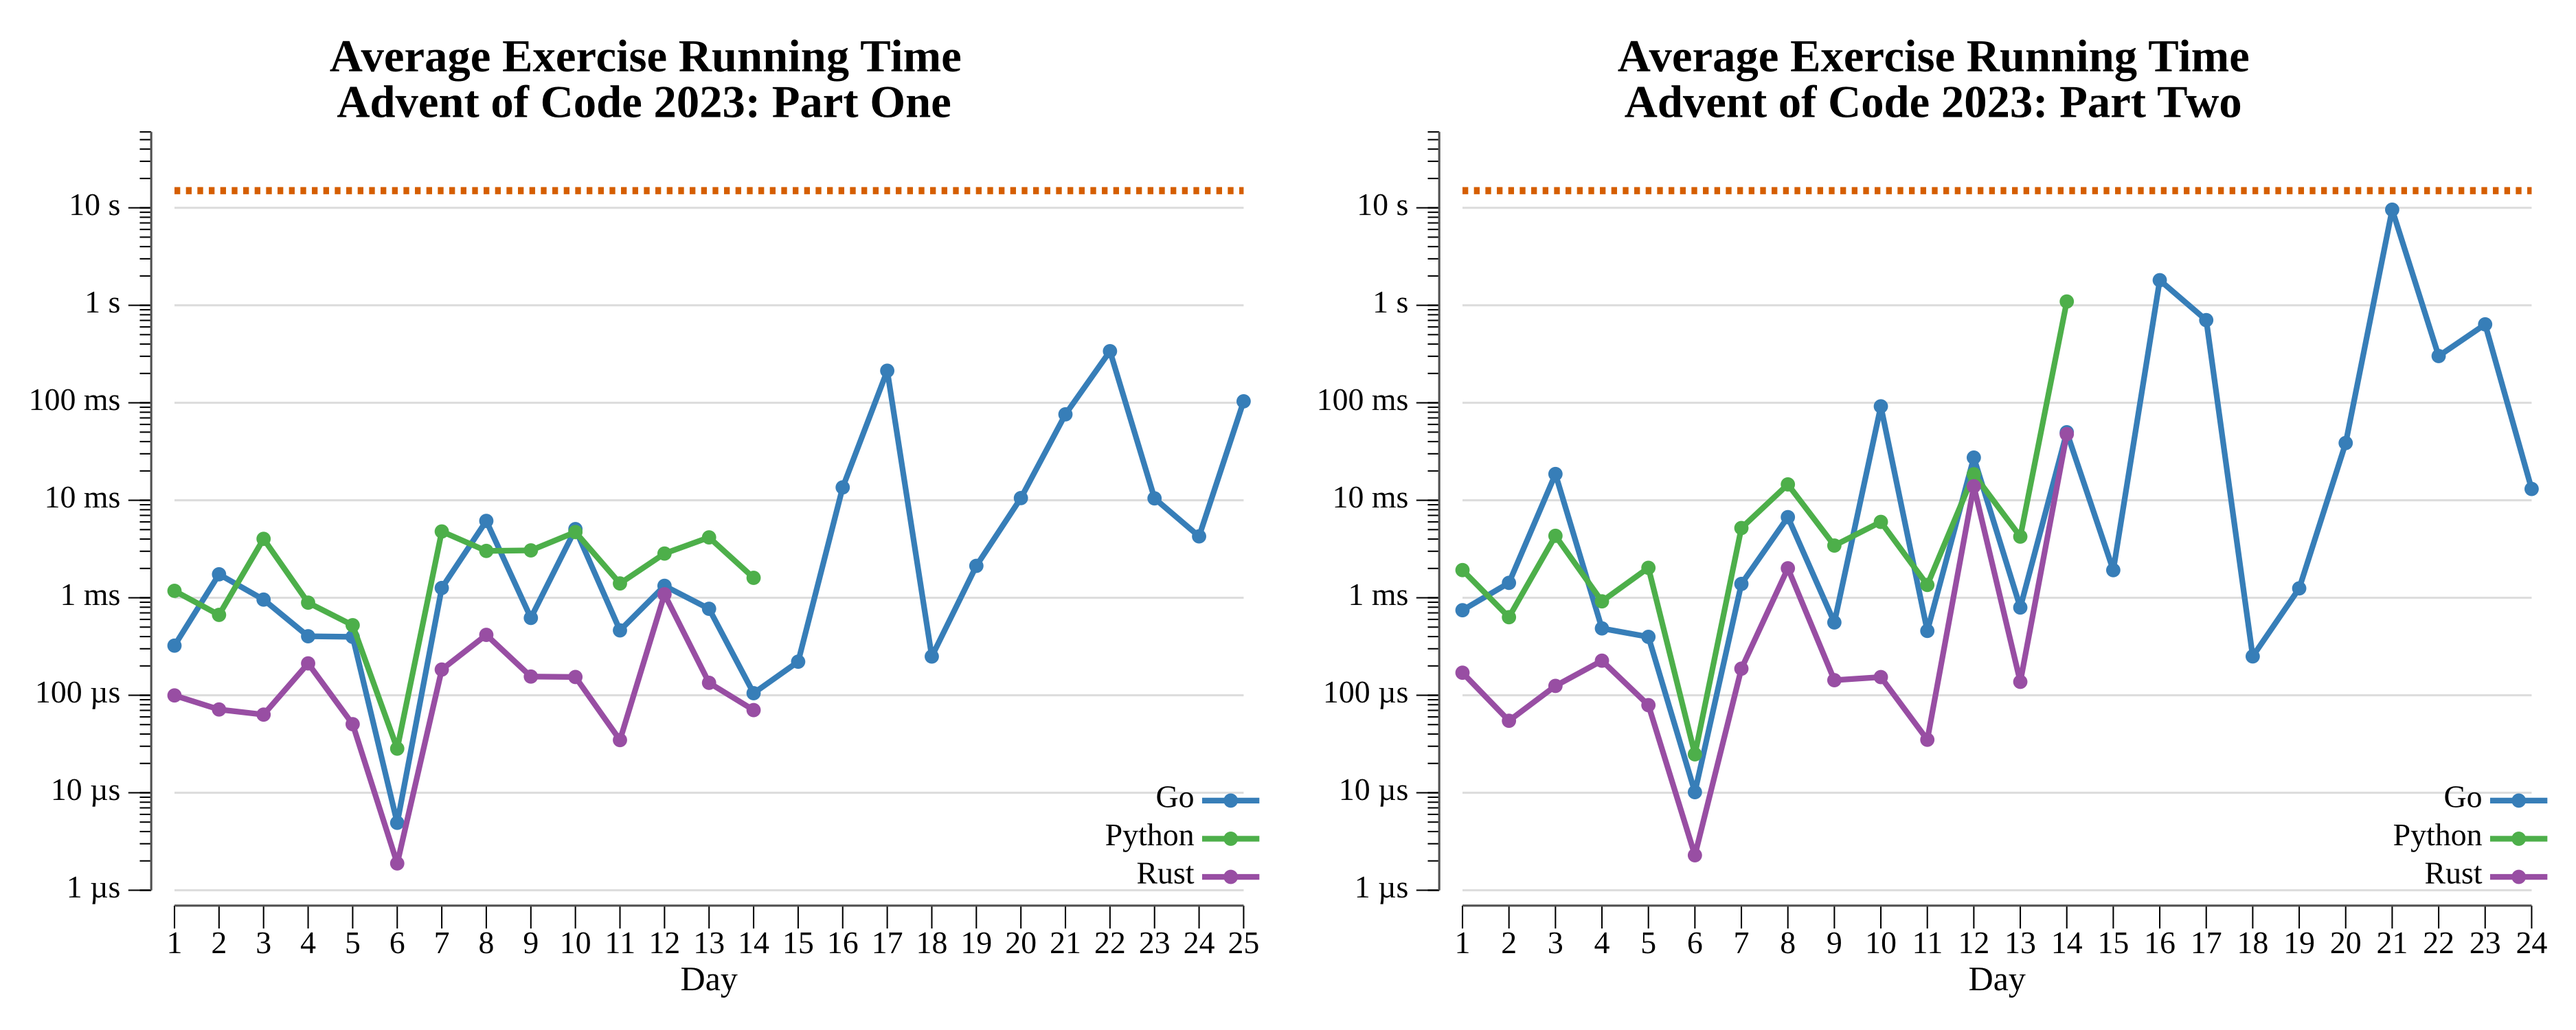
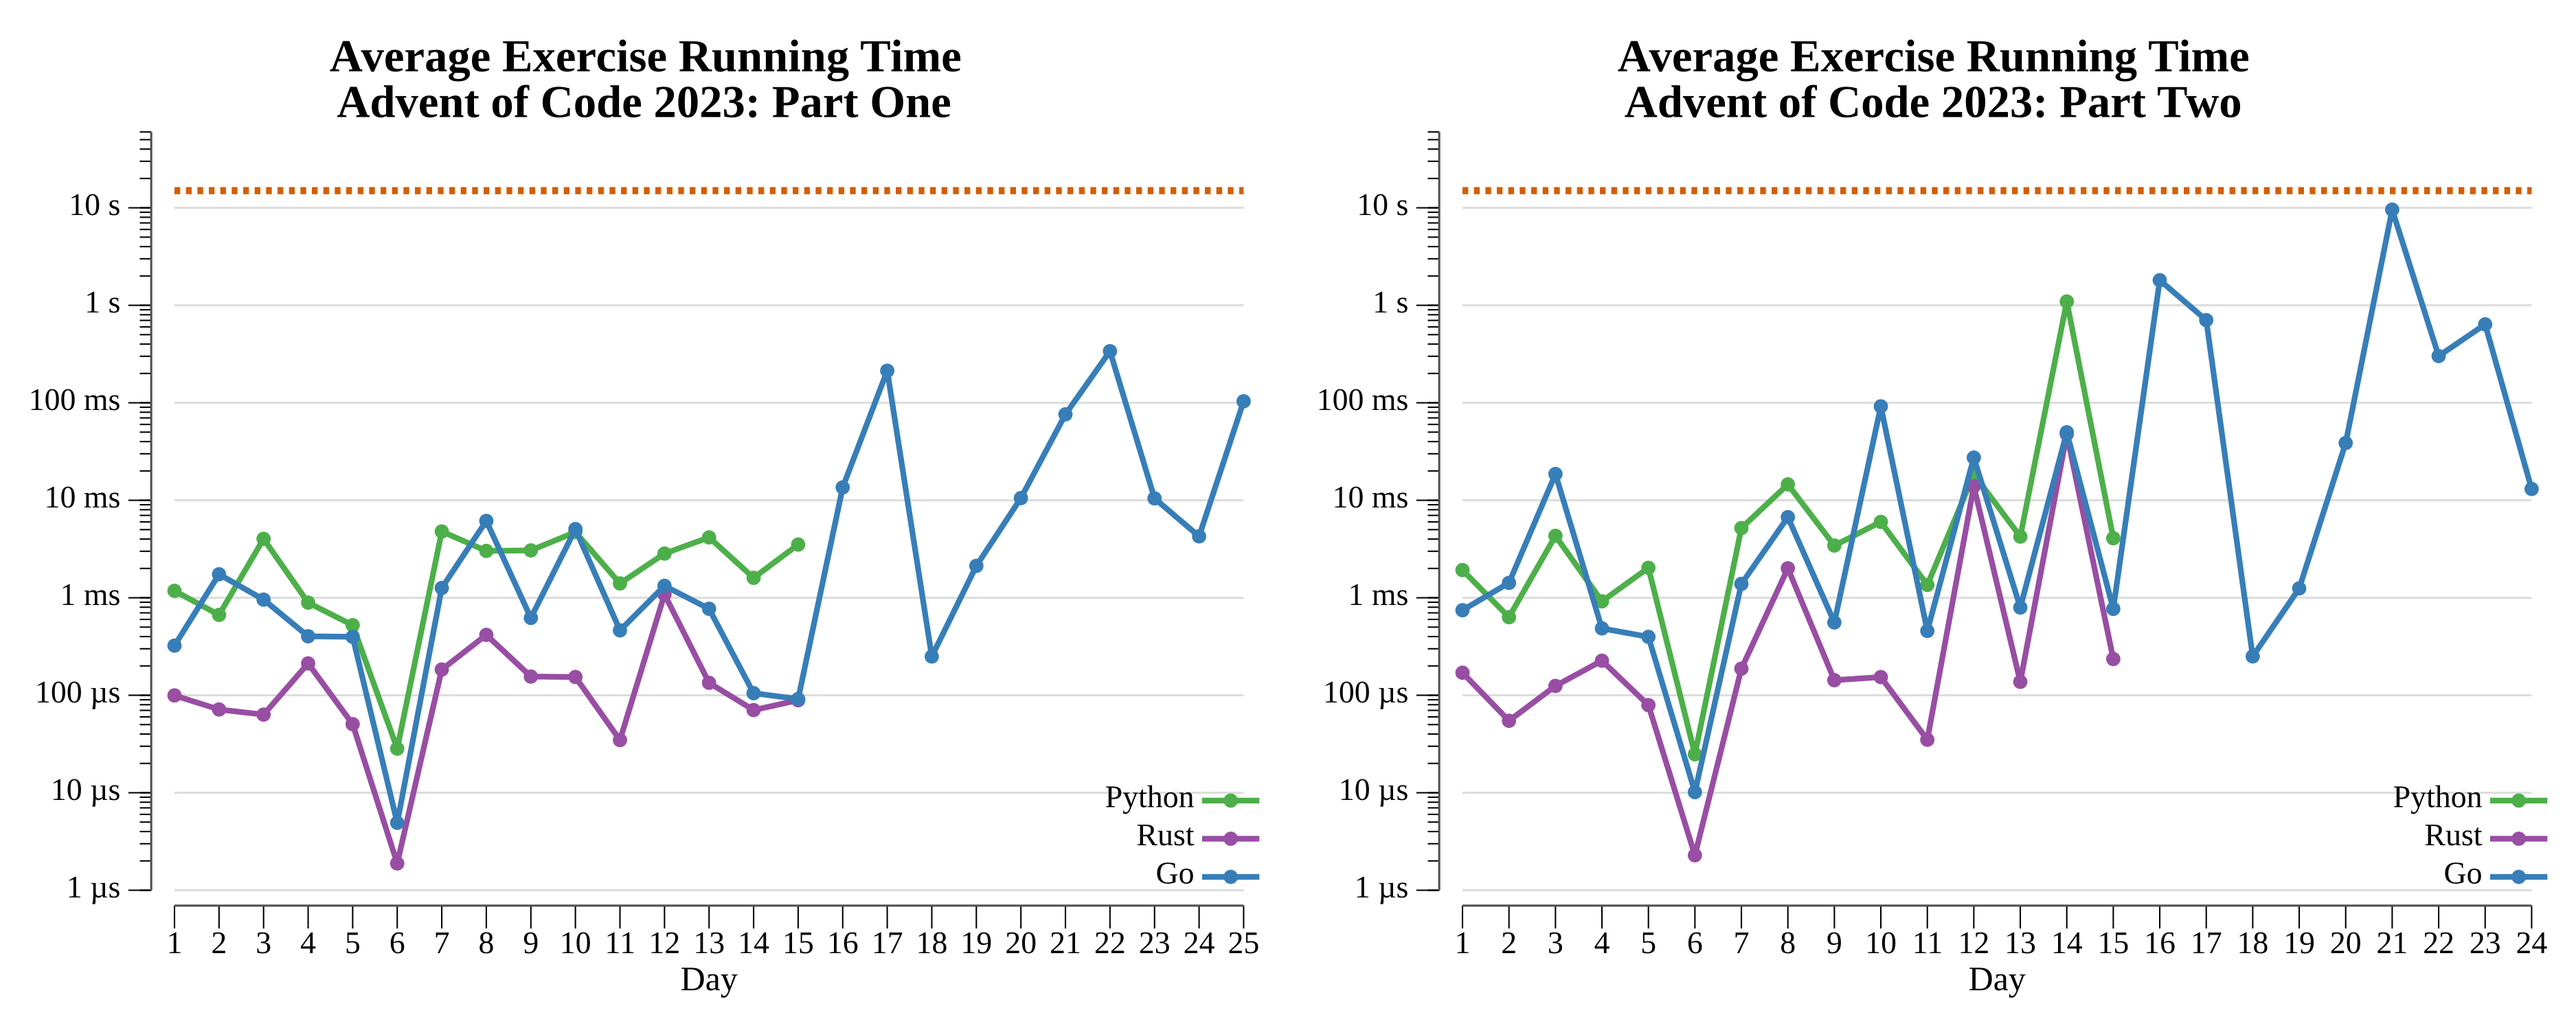
add rust/py to 2023 day 15

diff --git a/exercises/2023/15-lensLibrary/rs/src/solution.rs b/exercises/2023/15-lensLibrary/rs/src/solution.rs
@@ -1,0 +1,53 @@
+// Solution for Advent of Code 2023 day 15.
+//
+// The HASH of a string folds each byte as ((acc + b) * 17) mod 256. Part one
+// sums the HASH of every comma-separated step. Part two runs the HASHMAP: 256
+// boxes, each an ordered list of (label, focal length). A '-' removes a label; a
+// '=' updates it in place or appends it. Focusing power sums
+// (box+1) * slot * focal over every lens.
+
+fn hash(s: &str) -> usize {
+    s.bytes().fold(0usize, |acc, b| (acc + b as usize) * 17 % 256)
+}
+
+pub fn part_one(input: &str) -> String {
+    input
+        .trim()
+        .split(',')
+        .map(hash)
+        .sum::<usize>()
+        .to_string()
+}
+
+pub fn part_two(input: &str) -> String {
+    // Order matters within a box, so each is a Vec of (label, focal).
+    let mut boxes: Vec<Vec<(&str, u8)>> = vec![Vec::new(); 256];
+
+    for step in input.trim().split(',') {
+        if let Some(label) = step.strip_suffix('-') {
+            let b = &mut boxes[hash(label)];
+            if let Some(pos) = b.iter().position(|&(l, _)| l == label) {
+                b.remove(pos);
+            }
+        } else {
+            let (label, focal) = step.split_once('=').unwrap();
+            let focal: u8 = focal.parse().unwrap();
+            let b = &mut boxes[hash(label)];
+            match b.iter_mut().find(|(l, _)| *l == label) {
+                Some(slot) => slot.1 = focal, // update in place, keeping order
+                None => b.push((label, focal)),
+            }
+        }
+    }
+
+    boxes
+        .iter()
+        .enumerate()
+        .flat_map(|(bi, b)| {
+            b.iter()
+                .enumerate()
+                .map(move |(si, &(_, focal))| (bi + 1) * (si + 1) * focal as usize)
+        })
+        .sum::<usize>()
+        .to_string()
+}

diff --git a/exercises/2023/15-lensLibrary/py/__init__.py b/exercises/2023/15-lensLibrary/py/__init__.py
@@ -1,0 +1,34 @@
+from functools import reduce
+from typing import *
+from aocpy import BaseExercise
+
+
+def _hash(s: str) -> int:
+    # Fold each character: ((acc + ord) * 17) mod 256.
+    return reduce(lambda acc, ch: (acc + ord(ch)) * 17 % 256, s, 0)
+
+
+# Exercise for Advent of Code 2023 day 15.
+class Exercise(BaseExercise):
+    @staticmethod
+    def one(instr: str) -> int:
+        return sum(_hash(step) for step in instr.strip().split(","))
+
+    @staticmethod
+    def two(instr: str) -> int:
+        # 256 boxes; a dict per box preserves insertion order, so '=' updates in
+        # place and '-' removes, exactly matching the linked-list semantics.
+        boxes: list[dict[str, int]] = [{} for _ in range(256)]
+        for step in instr.strip().split(","):
+            if step.endswith("-"):
+                label = step[:-1]
+                boxes[_hash(label)].pop(label, None)
+            else:
+                label, focal = step.split("=")
+                boxes[_hash(label)][label] = int(focal)
+
+        return sum(
+            (box_i + 1) * slot * focal
+            for box_i, box in enumerate(boxes)
+            for slot, focal in enumerate(box.values(), start=1)
+        )

diff --git a/exercises/2023/15-lensLibrary/README.md b/exercises/2023/15-lensLibrary/README.md
@@ -33,8 +33,36 @@ Solving...
 
 ## Python
 
+HASH is a `functools.reduce` fold. Part two uses a list of 256 dicts, one per
+box: because a `dict` preserves insertion order, `=` updates a lens in place and
+`-` pops it, matching the required slot semantics without a manual linked list.
+
 ```text
-< section intentionally left blank >
+──────────────────────────────────────────
+           ADVENT OF CODE 2023
+           Day 15: Lens Library
+──────────────────────────────────────────
+
+Solving (Python)…
+1.0:  PASS             3.695ms
+2.0:  PASS             4.080ms
+```
+
+## Rust
+
+HASH is a byte `fold`. Each box is a `Vec<(&str, u8)>` borrowing labels from the
+input; `position`/`find` locate a lens to remove or update in place, preserving
+order, and the focusing power falls out of a `flat_map` over the boxes.
+
+```text
+──────────────────────────────────────────
+           ADVENT OF CODE 2023
+           Day 15: Lens Library
+──────────────────────────────────────────
+
+Solving (Rust)…
+1.0:  PASS            99.030µs
+2.0:  PASS           232.362µs
 ```
 
 ## 2023 Run Times

diff --git a/exercises/2023/README.md b/exercises/2023/README.md
@@ -20,7 +20,7 @@
 | [Day 12: Hot Springs][rm12]                   |  ⭐⭐   | [Go][go12] · [Rust][rs12] · [Python][py12] |
 | [Day 13: Point of Incidence][rm13]            |  ⭐⭐   | [Go][go13] · [Rust][rs13] · [Python][py13] |
 | [Day 14: Parabolic Reflector Dish][rm14]      |  ⭐⭐   | [Go][go14] · [Rust][rs14] · [Python][py14] |
-| [Day 15: Lens Library][rm15]                  |  ⭐⭐   | [Go][go15] |
+| [Day 15: Lens Library][rm15]                  |  ⭐⭐   | [Go][go15] · [Rust][rs15] · [Python][py15] |
 | [Day 16: The Floor Will Be Lava][rm16]        |  ⭐⭐   | [Go][go16] |
 | [Day 17: Clumsy Crucible][rm17]               |  ⭐⭐   | [Go][go17] |
 | [Day 18: Lavaduct Lagoon][rm18]               |  ⭐⭐   | [Go][go18] |
@@ -128,6 +128,8 @@ Day       Time   Rank  Score       Time   Rank  Score
 [py14]: 14-parabolicReflectorDish/py
 [rm15]: 15-lensLibrary/README.md
 [go15]: 15-lensLibrary/go
+[rs15]: 15-lensLibrary/rs
+[py15]: 15-lensLibrary/py
 [rm16]: 16-theFloorWillBeLava/README.md
 [go16]: 16-theFloorWillBeLava/go
 [rm17]: 17-clumsyCrucible/README.md
